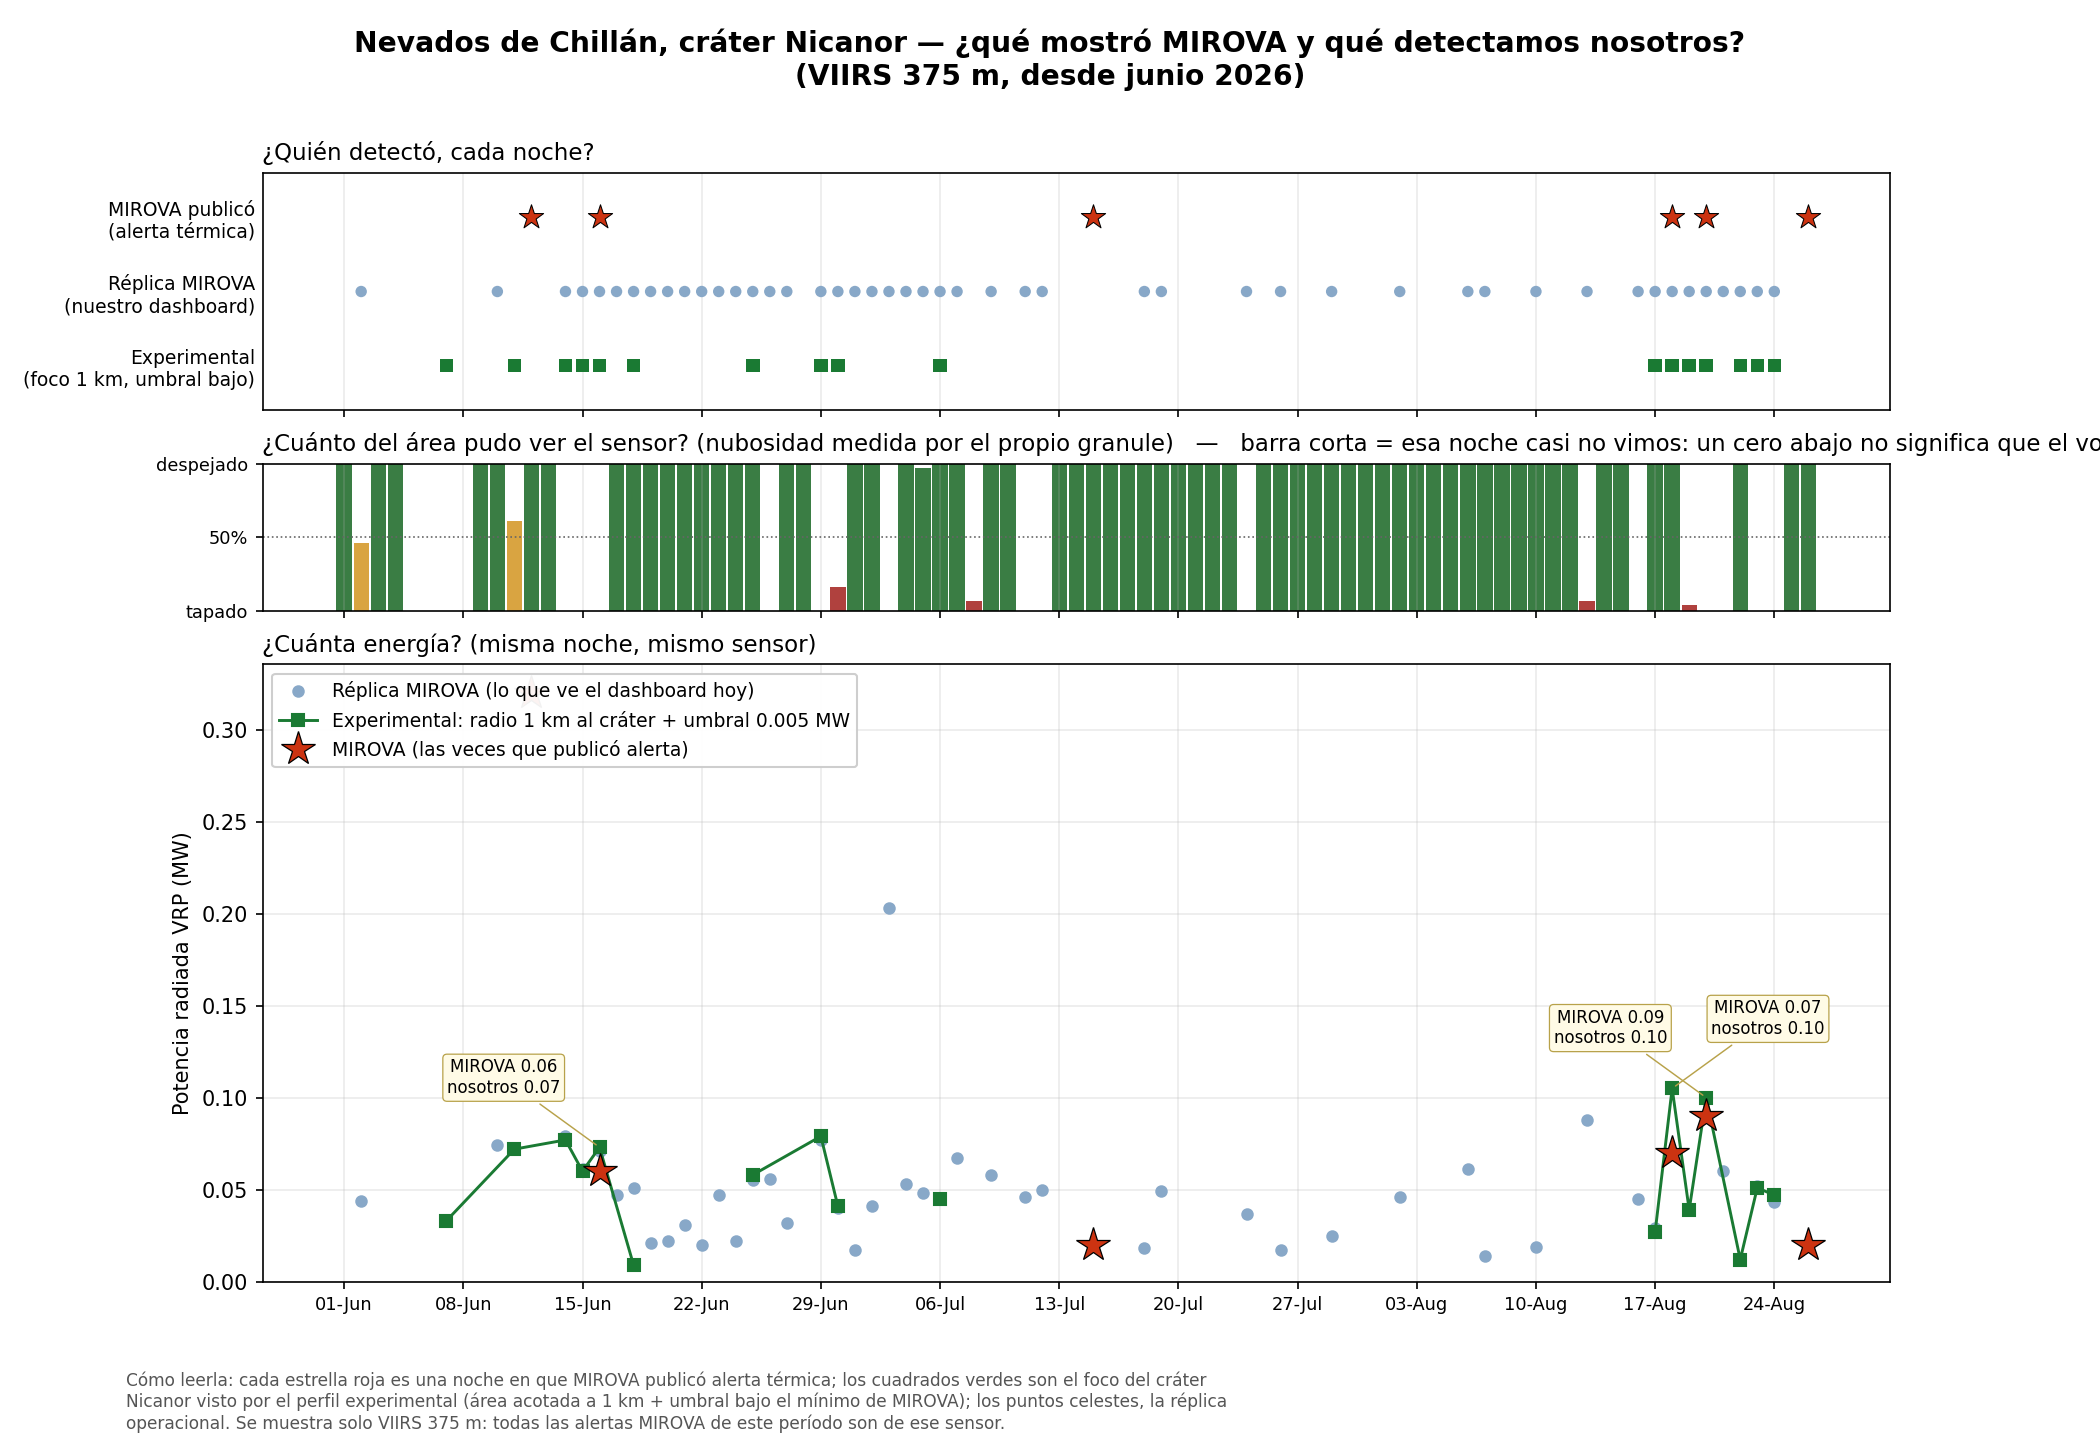
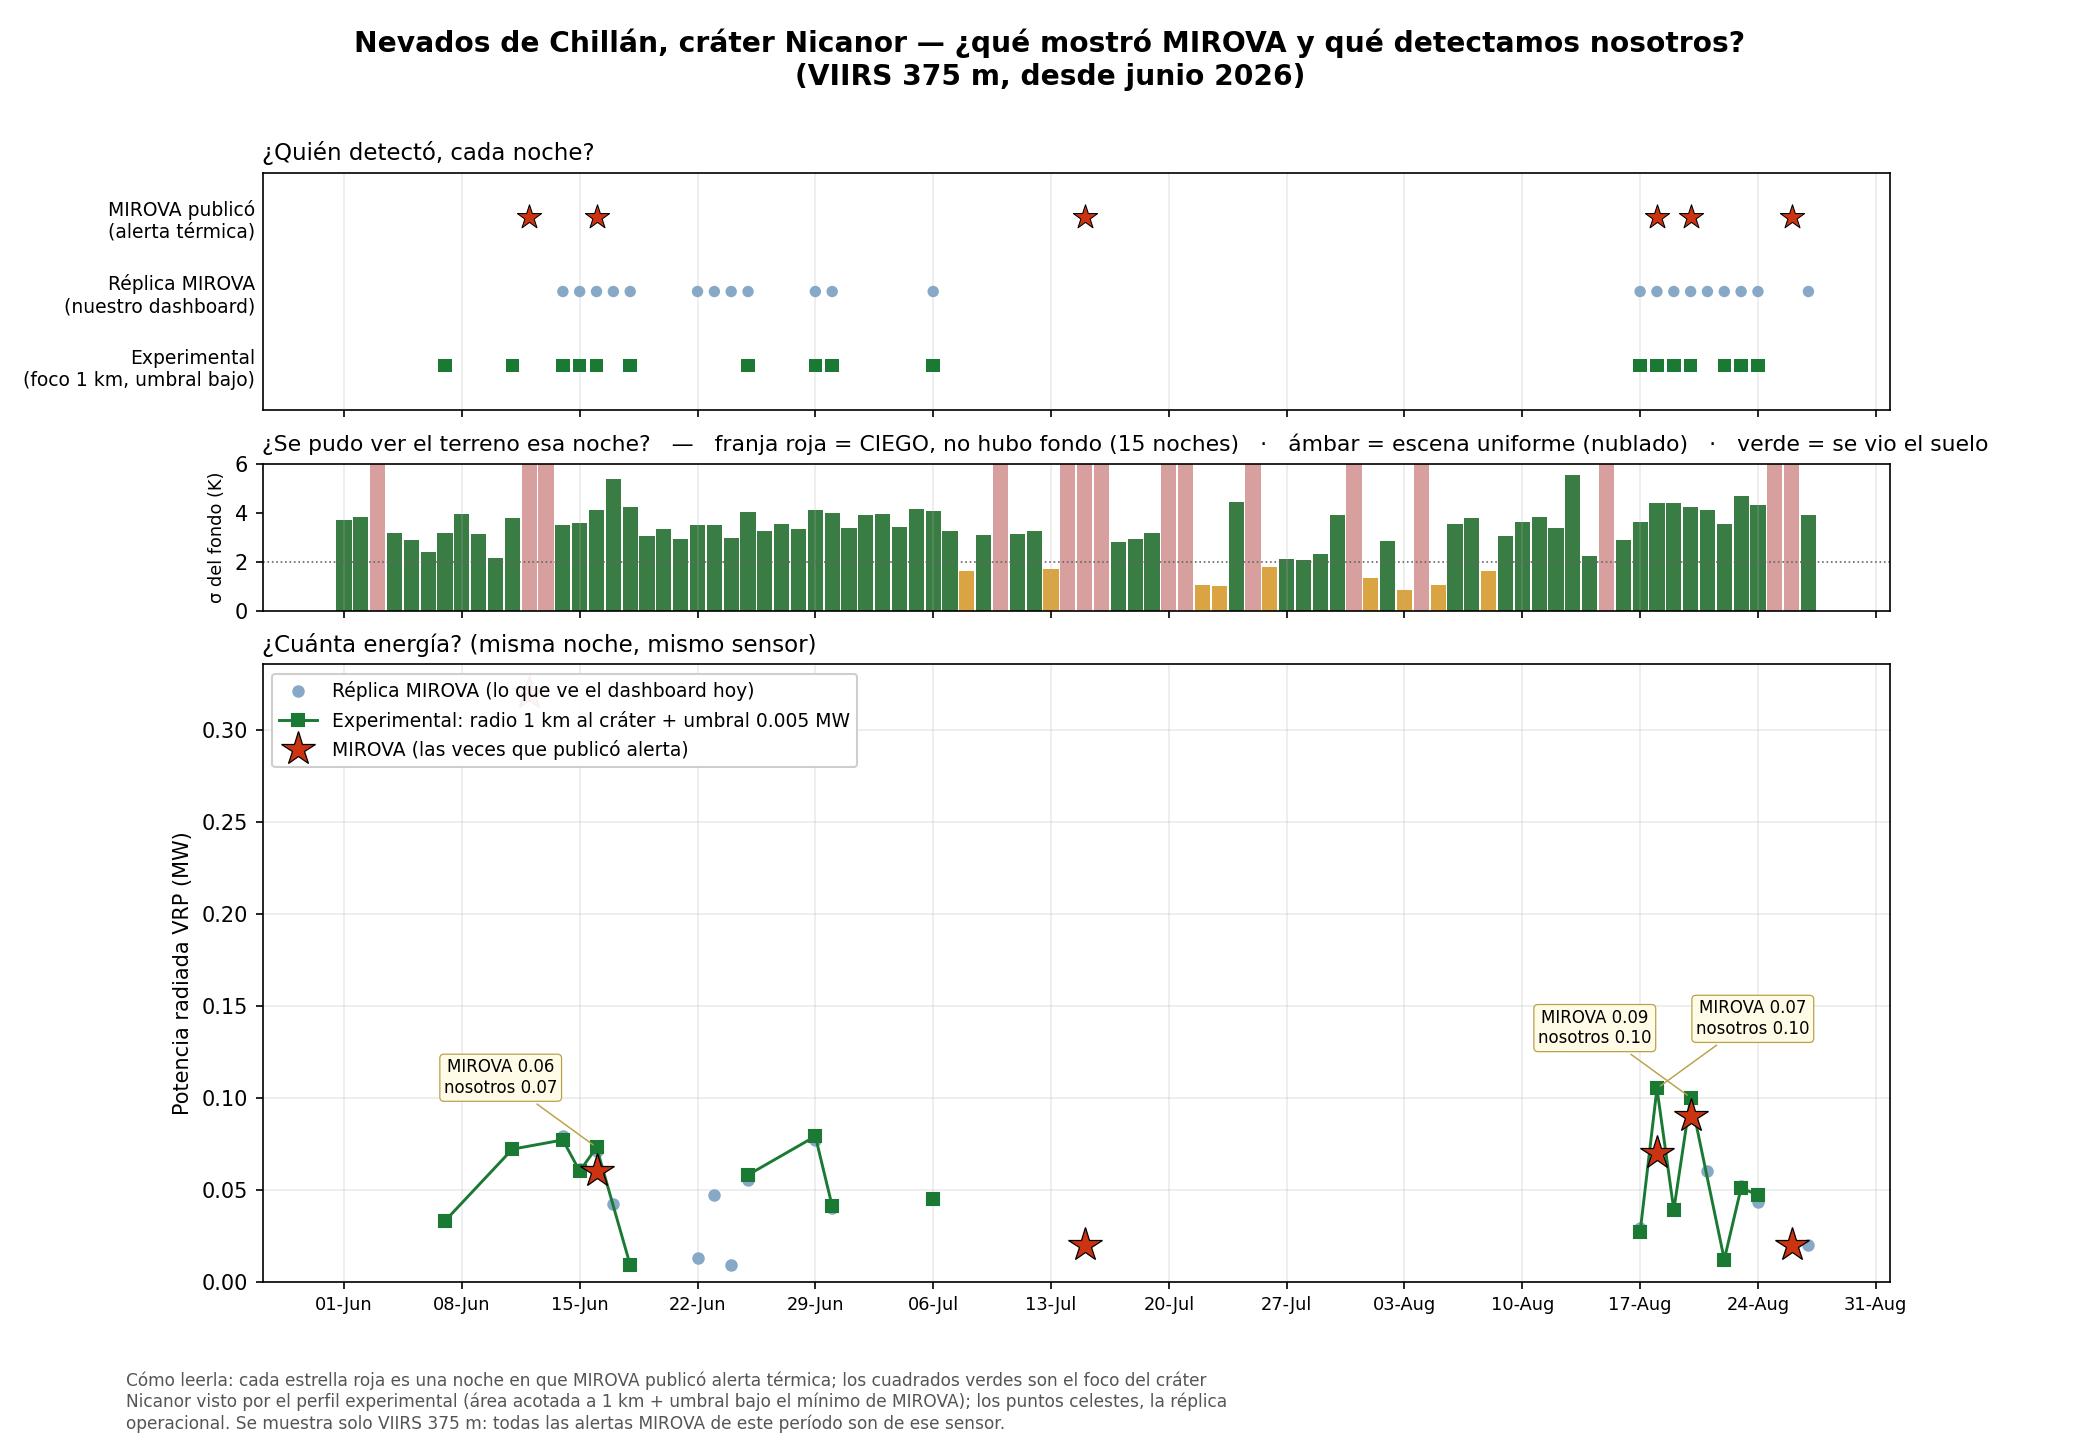
fix(s124): mismo radio en las dos series + la ceguera se mide por el FONDO, no por la nube
Dos correcciones que vienen de Nicolas, y un hallazgo que salio de la segunda.

MISMO RADIO (pedido directo). El grafico enfrentaba la replica con el inner de
5 km contra el experimental con 1 km. Asi la replica siempre iba a tener mas
lecturas, y no por sensibilidad sino por AREA: de sus 135 detecciones, 96 caen a
2-4 km del crater. Con el radio igualado a 1 km la comparacion pasa de 47 vs 17
a 21 vs 17, y la unica diferencia que queda entre las series es el umbral, que
es la variable del experimento.

CEGUERA. El panel usaba n_cloud_masked, que cuenta pixeles bajo 260 K: ve nube
alta y fria pero no la baja de tormenta (tope 263-273 K), y a esta altitud
confunde nieve con nube (D14). Se reemplaza por lo que el dato SI soporta:
  n_bg == 0   -> el pipeline no pudo establecer NINGUN pixel de fondo: ciego.
  sigma_bg    -> dispersion termica del terreno; alta = hay estructura (se vio
                 el suelo), baja = escena uniforme (nublado).
No mira temperatura absoluta, asi que no confunde nieve fria con nube. Las
noches ciegas se dibujan como franja roja de altura completa: con sigma=0 la
barra medía cero y quedaban invisibles, que son justo las que hay que ver.

HALLAZGO -- LA MASCARA NOS DEJA CIEGOS Y AHI PERDEMOS LAS ALERTAS. Cadena
causal medida (experiments/_s124_ndc_focus/03_ceguera_y_fondo.py):
  pasadas SIN fondo: la regla <260 K saca el 57% del ROI (mediana)
  pasadas CON fondo: saca el 7%                    -> factor 9x
[…]

diff --git a/experiments/_s124_ndc_focus/03_ceguera_y_fondo.py b/experiments/_s124_ndc_focus/03_ceguera_y_fondo.py
@@ -1,0 +1,106 @@
+# -*- coding: utf-8 -*-
+"""S124 — La mascara de nube <260 K nos deja CIEGOS, y ahi perdemos las alertas.
+
+POR QUE: Nicolas no reconocia como despejadas semanas que el sabe que fueron de
+temporal (A62). Investigando salio algo mas grave que un panel mal etiquetado.
+
+CADENA CAUSAL (medida, no supuesta):
+  1. Noche fria de invierno sobre un volcan nevado -> gran parte del ROI cae
+     bajo 260 K.
+  2. process_viirs.py:681-682 hace `roi_mask &= cloud_free` Y
+     `bg_mask &= cloud_free`: los saca de la busqueda Y del anillo de fondo.
+  3. El anillo queda vacio -> n_bg = 0 -> no hay estadistica de fondo -> no hay
+     deteccion posible. La noche es CIEGA.
+  4. MIROVA no filtra nube (Laiolo 2026: "no atmospheric correction or
+     cloud-contamination automatic filtering"), conserva su fondo y publica.
+
+Y esa mascara es la que MISSION.md:127 declara "Removido S27". Ver D14.
+
+Fuente de verdad de los numeros del informe (regla S91).
+"""
+import csv, io, json, math, sys
+from pathlib import Path
+
+sys.stdout = io.TextIOWrapper(sys.stdout.buffer, encoding="utf-8")
+ROOT = Path(__file__).resolve().parents[2]
+NIC = (-36.867210, -71.378241)
+INI = "2026-06-01"
+PIX_ROI_I = (50.0 / 0.375) ** 2      # ROI 50x50 km en pixeles I-band nadir
+
+
+def hav(la1, lo1, la2, lo2):
+    p = math.pi / 180
+    a = (math.sin((la2 - la1) * p / 2) ** 2
+         + math.cos(la1 * p) * math.cos(la2 * p) * math.sin((lo2 - lo1) * p / 2) ** 2)
+    return 2 * 6371.0 * math.asin(math.sqrt(a))
+
+
+def viirs375(vol):
+    d = json.loads((ROOT / f"data/mirova_equivalent/{vol}.json").read_text(encoding="utf-8"))
+    return [r for r in d["records"]
+            if (r.get("datetime_utc") or "") >= INI
+            and "VIIRS" in (r.get("sensor") or "") and "750" not in r["sensor"]]
+
+
+def med(v):
+    v = sorted(x for x in v if x is not None)
+    return v[len(v) // 2] if v else float("nan")
+
+
+if __name__ == "__main__":
+    rs = viirs375("NevadosDeChillan")
+
+    # --- 1) la mascara es lo que vacia el fondo -------------------------------
+    sin = [r for r in rs if (r.get("diag_n_bg_used_first_pass") or 0) == 0]
+    con = [r for r in rs if (r.get("diag_n_bg_used_first_pass") or 0) > 0]
+    ms = med([r.get("n_cloud_masked") for r in sin])
+    mc = med([r.get("n_cloud_masked") for r in con])
+    print(f"pasadas SIN fondo (n_bg=0): {len(sin)}   CON fondo: {len(con)}\n")
+    print("            pixeles que la regla <260 K saca del ROI (mediana)")
+    print(f"  sin fondo:  {ms:8.0f}  = {100*ms/PIX_ROI_I:2.0f}% del ROI")
+    print(f"  con fondo:  {mc:8.0f}  = {100*mc/PIX_ROI_I:2.0f}% del ROI")
+    print(f"  -> factor {ms/mc:.0f}x\n")
+
+    # --- 2) ahi es donde perdemos las alertas ---------------------------------
+    ciego = {}
+    for r in rs:
+        f = r["datetime_utc"][:10]
+        ok = (r.get("diag_n_bg_used_first_pass") or 0) > 0
+        ciego[f] = ciego.get(f, True) and not ok
+
+    foco = set()
+    dd = json.loads((ROOT / "data/experimental_ndc_focus/NevadosDeChillan.json")
+                    .read_text(encoding="utf-8"))
+    for r in dd["records"]:
+        f = (r.get("datetime_utc") or "")[:10]
+        pc = r.get("primary_cluster") or {}
+        if f >= INI and (pc.get("vrp_mw") or 0) > 0 and pc.get("centroid_lat") is not None \
+           and hav(NIC[0], NIC[1], pc["centroid_lat"], pc["centroid_lon"]) <= 1.0:
+            foco.add(f)
+
+    mirova = set()
+    with open(ROOT / "latest_consolidado.csv", encoding="utf-8", errors="replace") as fh:
+        for r in csv.DictReader(fh):
+            if r.get("Volcan") != "Nevados de Chillan":
+                continue
+            f = (r.get("Fecha_Satelite_UTC") or "")[:10]
+            if f < INI or "ALERTA" not in (r.get("Tipo_Registro") or ""):
+                continue
+            if (r.get("Sensor") or "").strip().upper() != "VIIRS375":
+                continue
+            try:
+                v = float(r.get("VRP_MW") or 0)
+            except ValueError:
+                continue
+            if v > 0:
+                mirova.add(f)
+
+    nc = sum(1 for v in ciego.values() if v)
+    print(f"noches con pasada: {len(ciego)}   CIEGAS: {nc} ({100*nc/len(ciego):.0f}%)")
+    print(f"alertas MIROVA: {len(mirova)}   reproducidas: {len(mirova & foco)}   perdidas: {len(mirova - foco)}\n")
+    for f in sorted(mirova - foco):
+        print(f"  PERDIDA {f}: {'CIEGA' if ciego.get(f) else 'con fondo'}")
+    for f in sorted(mirova & foco):
+        print(f"  ok      {f}: {'CIEGA' if ciego.get(f) else 'con fondo'}")
+    print("\nSeparacion perfecta: las 3 que perdemos son ciegas, las 3 que")
+    print("reproducimos tienen fondo. Con 17% de noches ciegas, 3 de 3 no es azar.")

diff --git a/experiments/_s124_ndc_focus/plot_simple.py b/experiments/_s124_ndc_focus/plot_simple.py
@@ -75,8 +75,15 @@ for r in d["records"]:
     v = pc.get("vrp_mw") or 0
     if v <= 0 or r.get("distance_class") != "summit":
         continue
-    cd = pc.get("centroid_dist_km")
-    if cd is not None and cd > 5.0:
+    # MISMO RADIO que el experimental (1 km al cráter Nicanor). Antes se usaba
+    # el inner de 5 km del KML MIROVA, y comparar 5 km contra 1 km hacía que la
+    # réplica pareciera más sensible cuando lo único que tenía era más ÁREA: de
+    # sus 135 detecciones, 96 caían a 2-4 km del cráter (S124). Con el radio
+    # igualado la única diferencia que queda entre las dos series es el umbral,
+    # que es la variable del experimento.
+    if pc.get("centroid_lat") is None:
+        continue
+    if hav(NIC[0], NIC[1], pc["centroid_lat"], pc["centroid_lon"]) > 1.0:
         continue
     replica[f] = max(replica.get(f, 0), v)
 
@@ -106,12 +113,21 @@ for r in _d_op["records"]:
     sen = r.get("sensor") or ""
     if f < START or "VIIRS" not in sen or "750" in sen:
         continue
-    nc = r.get("n_cloud_masked")
-    if nc is None:
-        continue
-    # conteo crudo de píxeles fríos; la MENOR de la noche (la pasada más limpia)
+    # QUÉ SE MIDE: si hubo fondo, y qué tan estructurado estaba.
+    #   n_bg == 0  -> el pipeline no pudo establecer NINGÚN píxel de fondo:
+    #                 ceguera real, no "no detectamos". Medido: las 3 alertas de
+    #                 MIROVA que perdemos caen las 3 en noches así, y solo el
+    #                 17 % de las noches lo son.
+    #   sigma_bg   -> dispersión térmica del terreno. Noche despejada = hay
+    #                 estructura (roca, parches de nieve, valle) y la dispersión
+    #                 es alta; manto de nubes = escena uniforme y colapsa.
+    # Es mejor que el umbral de 260 K del pipeline (D14) porque NO mira la
+    # temperatura absoluta, así que no confunde nieve fría con nube.
+    sg = r.get("diag_sigma_bg_k")
+    nb = r.get("diag_n_bg_used_first_pass")
+    valor = 0.0 if (nb == 0 or sg is None) else float(sg)
     prev = despejado.get(f)
-    despejado[f] = nc if prev is None else min(prev, nc)
+    despejado[f] = valor if prev is None else max(prev, valor)
 
 # ── Foco experimental: summit a <=1 km del cráter Nicanor ───────────────────
 foco = {}
@@ -160,20 +176,29 @@ axA.set_ylim(-0.6, 2.6)
 axA.grid(True, axis="x", alpha=0.25)
 axA.tick_params(axis="y", length=0)
 
-# Panel intermedio — cuánto pudo ver el sensor esa noche
+# Panel intermedio — ¿se pudo ver el terreno esa noche?
 _of = sorted(despejado)
 _ox = [datetime.fromisoformat(f) for f in _of]
 _oy = [despejado[f] for f in _of]
-_col = ["#3a7d44" if v >= 70 else ("#d9a441" if v >= 30 else "#b0413e") for v in _oy]
-axC.bar(_ox, _oy, width=0.9, color=_col, linewidth=0)
-axC.axhline(50, color="#666", lw=0.8, ls=":")
-axC.set_ylim(0, 100)
-axC.set_yticks([0, 50, 100])
-axC.set_yticklabels(["tapado", "50%", "despejado"], fontsize=8.5)
+# Las noches CIEGAS tienen σ = 0, o sea barra de altura cero: invisibles, y son
+# justo las que hay que ver. Se dibujan a altura completa en rojo — la franja
+# llena significa "acá no sabemos", no "acá hubo mucha señal".
+_ciego = [v <= 0.01 for v in _oy]
+axC.bar([x for x, c in zip(_ox, _ciego) if c], [6.0] * sum(_ciego),
+        width=0.9, color="#b0413e", alpha=0.5, linewidth=0)
+_col = ["#d9a441" if v < 2.0 else "#3a7d44" for v in _oy]
+axC.bar([x for x, c in zip(_ox, _ciego) if not c],
+        [v for v, c in zip(_oy, _ciego) if not c],
+        width=0.9, color=[c for c, cc in zip(_col, _ciego) if not cc], linewidth=0)
+axC.axhline(2.0, color="#666", lw=0.8, ls=":")
+axC.set_ylim(0, 6)
+axC.set_yticks([0, 2, 4, 6])
+axC.set_ylabel("σ del fondo (K)", fontsize=8.5)
 axC.grid(True, axis="x", alpha=0.25)
-axC.set_title("¿Cuánto del área pudo ver el sensor? (nubosidad medida por el propio granule)"
-              "   —   barra corta = esa noche casi no vimos: un cero abajo no significa que el volcán estuviera tranquilo",
-              loc="left", fontsize=11)
+axC.set_title("¿Se pudo ver el terreno esa noche?   —   "
+              f"franja roja = CIEGO, no hubo fondo ({sum(_ciego)} noches)   ·   "
+              "ámbar = escena uniforme (nublado)   ·   verde = se vio el suelo",
+              loc="left", fontsize=10.5)
 
 # Panel B — cuánta energía
 axB.set_title("¿Cuánta energía? (misma noche, mismo sensor)", loc="left", fontsize=11)
